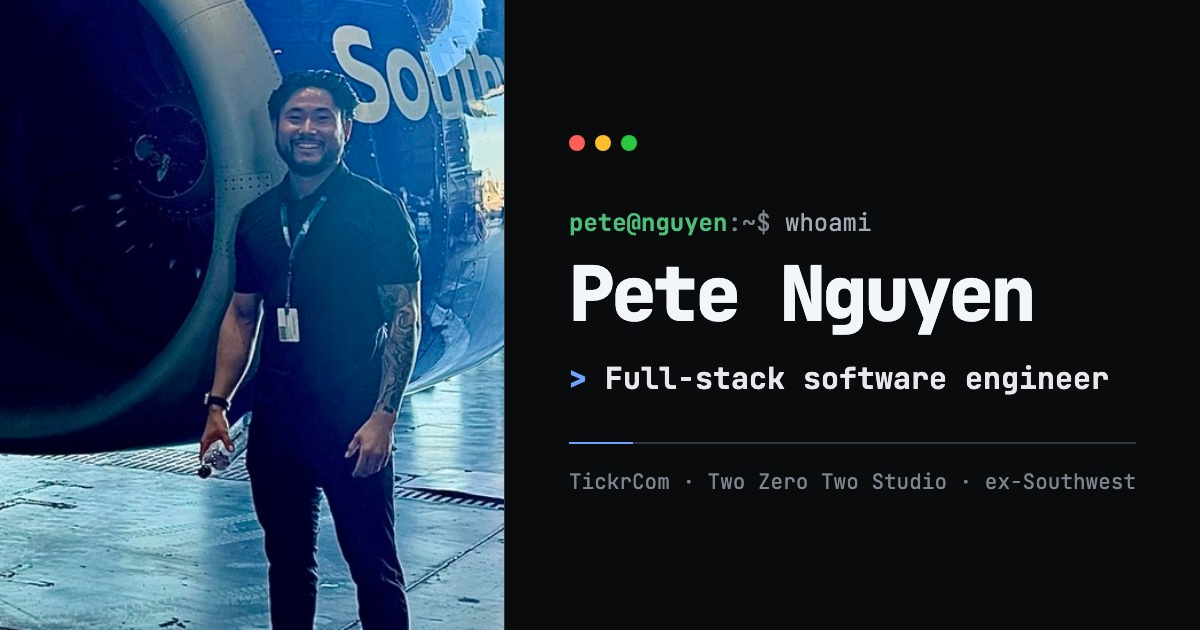
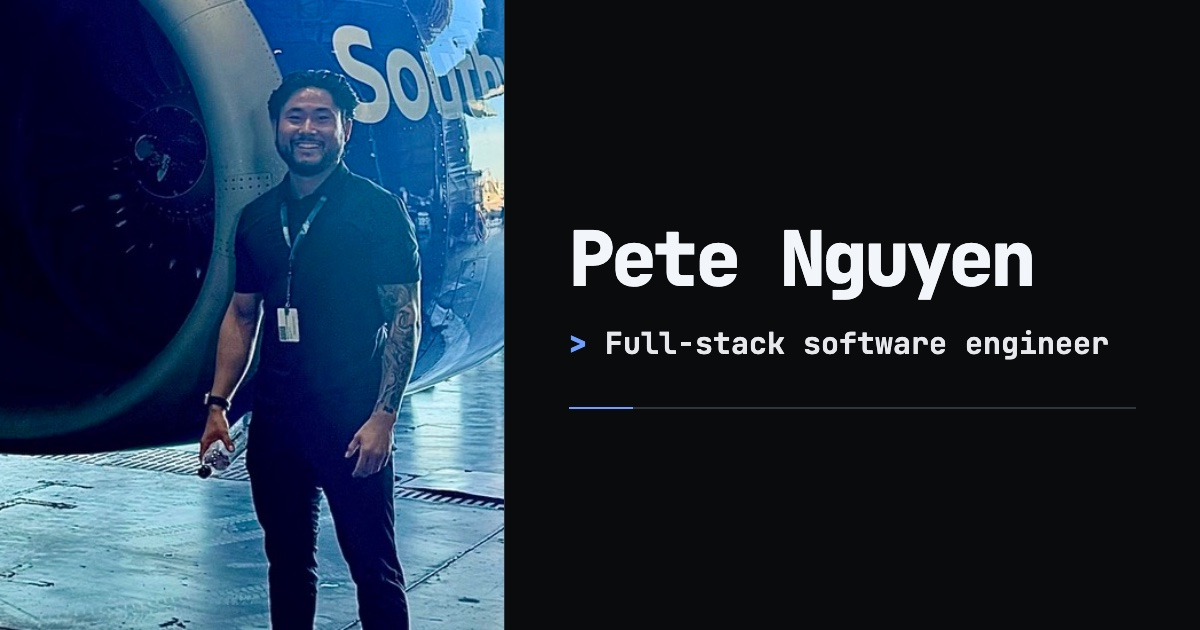
Simplify link preview card
Show only name, title, and accent rule in the preview image, and drop
company names from the preview image's alt text.

diff --git a/index.html b/index.html
@@ -18,10 +18,10 @@
     <meta property="og:image:type" content="image/jpeg" />
     <meta property="og:image:width" content="1200" />
     <meta property="og:image:height" content="630" />
-    <meta property="og:image:alt" content="Pete Nguyen beside a Southwest Airlines engine, with the title Full-stack software engineer" />
+    <meta property="og:image:alt" content="Pete Nguyen, full-stack software engineer" />
     <meta name="twitter:card" content="summary_large_image" />
     <meta name="twitter:image" content="https://petenguyen.dev/og-image.jpg" />
-    <meta name="twitter:image:alt" content="Pete Nguyen beside a Southwest Airlines engine, with the title Full-stack software engineer" />
+    <meta name="twitter:image:alt" content="Pete Nguyen, full-stack software engineer" />
 
     <link rel="canonical" href="https://petenguyen.dev/" />
     <link rel="icon" type="image/svg+xml" href="/favicon.svg" />
